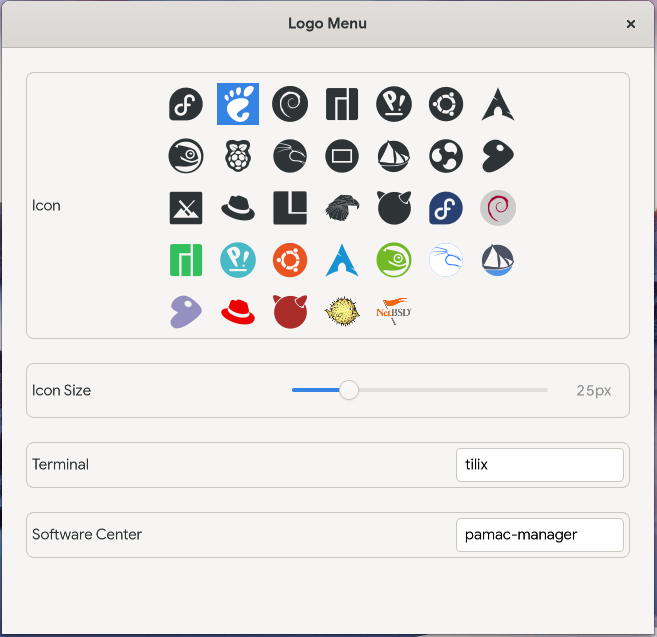
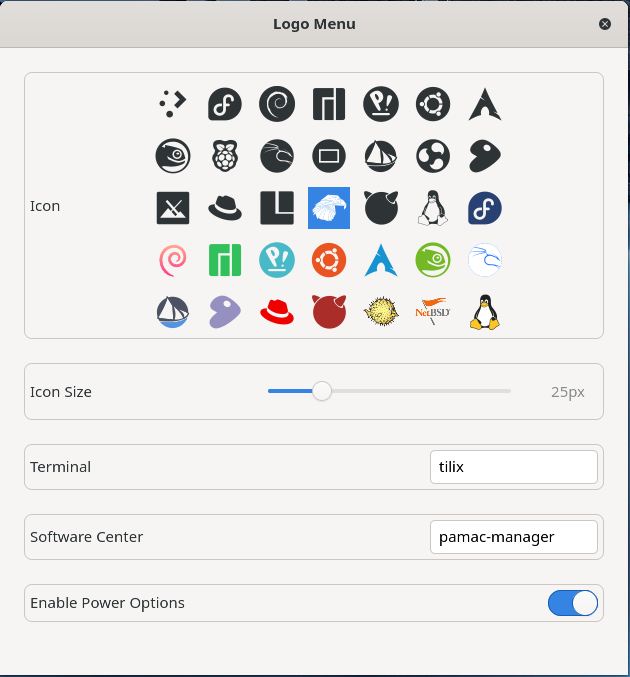
Added Power Options and improved list order

Changed region(s): [[0.0, 0.0, 1.0, 1.0], [0.4222, 0.5667, 0.8444, 0.6264], [0.8746, 0.5667, 0.9349, 0.6264]]

diff --git a/extension.js b/extension.js
@@ -24,6 +24,22 @@ function _overviewToggle() {
 	Main.overview.toggle();
 }
 
+function _sleep() {
+	Util.spawn(['systemctl', 'suspend'])
+}
+
+function _restart() {
+	Util.spawn(['systemctl', 'reboot'])
+}
+
+function _shutdown() {
+	Util.spawn(['systemctl', 'poweroff', '-prompt'])
+}
+
+function _logOut() {
+	Util.spawn(['gnome-session-quit'])
+}
+
 function _appGrid() {
     // Code snippet from - https://github.com/G-dH/custom-hot-corners-extended/blob/gdh/actions.js
     // Pressing the apps btn before overview activation avoids icons animation in GS 3.36/3.38
@@ -62,30 +78,43 @@ var MenuButton = GObject.registerClass(class FedoraMenu_MenuButton extends Panel
 		})
 		this._settings.connect("changed::menu-button-icon-image", () => this.setIconImage())
 		this._settings.connect("changed::menu-button-icon-size", () => this.setIconSize())
+		
 		this.setIconImage()
 		this.setIconSize()
 		this.add_actor(this.icon)
 
 		// Menu
-		this.item1 = new PopupMenu.PopupMenuItem(_('About My System         '))
+		this._settings.connect('changed::show-power-options', () => this.togglePowerOptions())
+		this.togglePowerOptions();
+
+		//bind middle click option to toggle overview
+		this.connect('button-press-event', _middleClick.bind(this));
+	}
+	
+	togglePowerOptions(){
+		let cstate = this._settings.get_boolean('show-power-options')
+		this.menu.removeAll()
+		this.item1 = new PopupMenu.PopupMenuItem(_('About My System                 '))
 		this.item2 = new PopupMenu.PopupMenuItem(_('System Settings...'))
 		this.item3 = new PopupMenu.PopupSeparatorMenuItem()
 		this.item4 = new PopupMenu.PopupMenuItem(_('Activities'))
-		this.item5 = new PopupMenu.PopupMenuItem(_('App Grid'))
-		this.item6 = new PopupMenu.PopupMenuItem(_('Force Quit App'))
-		this.item7 = new PopupMenu.PopupSeparatorMenuItem()
-		this.item8 = new PopupMenu.PopupMenuItem(_('Software Center...'))
-		this.item9 = new PopupMenu.PopupMenuItem(_('Terminal'))
-		this.item10 = new PopupMenu.PopupMenuItem(_('Extensions'))
-
+		this.item5 = new PopupMenu.PopupMenuItem(_('App Grid'))	
+		this.item6 = new PopupMenu.PopupSeparatorMenuItem()
+		this.item7 = new PopupMenu.PopupMenuItem(_('Software Center...'))
+		this.item8 = new PopupMenu.PopupMenuItem(_('Terminal'))
+		this.item9 = new PopupMenu.PopupMenuItem(_('Extensions'))
+		this.item10 = new PopupMenu.PopupSeparatorMenuItem()
+		this.item11 = new PopupMenu.PopupMenuItem(_('Force Quit App'))
+		
 		this.item1.connect('activate', () => _aboutThisDistro())
 		this.item2.connect('activate', () => _systemPreferences())
 		this.item4.connect('activate', () => _overviewToggle())
 		this.item5.connect('activate', () => _appGrid())
-		this.item6.connect('activate', () => _forceQuit())
-		this.item8.connect('activate', () => this.softwareStore())
-		this.item9.connect('activate', () => this.terminal())
-		this.item10.connect('activate', () => this.extensions())
+		this.item7.connect('activate', () => this.softwareStore())
+		this.item8.connect('activate', () => this.terminal())
+		this.item9.connect('activate', () => this.extensions())
+		this.item11.connect('activate', () => _forceQuit())
+		
 		this.menu.addMenuItem(this.item1)
 		this.menu.addMenuItem(this.item2)
 		this.menu.addMenuItem(this.item3)
@@ -96,9 +125,27 @@ var MenuButton = GObject.registerClass(class FedoraMenu_MenuButton extends Panel
 		this.menu.addMenuItem(this.item8)
 		this.menu.addMenuItem(this.item9)
 		this.menu.addMenuItem(this.item10)
+		this.menu.addMenuItem(this.item11)
+		if (cstate) {
+			this.item11 = new PopupMenu.PopupSeparatorMenuItem()
+			this.item12 = new PopupMenu.PopupMenuItem('Sleep')
+			this.item13 = new PopupMenu.PopupMenuItem('Restart')
+			this.item14 = new PopupMenu.PopupMenuItem('Shut Down')
+			this.item15 = new PopupMenu.PopupSeparatorMenuItem()
+			this.item16 = new PopupMenu.PopupMenuItem('Log Out...')
 
-		//bind middle click option to toggle overview
-		this.connect('button-press-event', _middleClick.bind(this));
+			this.menu.addMenuItem(this.item11)
+			this.menu.addMenuItem(this.item12)
+			this.menu.addMenuItem(this.item13)
+			this.menu.addMenuItem(this.item14)
+			this.menu.addMenuItem(this.item15)
+			this.menu.addMenuItem(this.item16)
+
+			this.item12.connect('activate', () => _sleep())
+			this.item13.connect('activate', () => _restart())
+			this.item14.connect('activate', () => _shutdown())
+			this.item16.connect('activate', () => _logOut())
+		}
 	}
 
 	terminal() {

diff --git a/prefs.js b/prefs.js
@@ -200,8 +200,6 @@ var FedoraMenuPreferencesWidget = GObject.registerClass(class Fedora_Menu_Prefer
             this.append(menuButtonTerminalFrame);
         }
 
-
-
         let menuButtonSCFrame = new Gtk.Frame();
         let menuButtonSCBox = new Gtk.Box({
             margin_top: 5,
@@ -239,6 +237,44 @@ var FedoraMenuPreferencesWidget = GObject.registerClass(class Fedora_Menu_Prefer
             menuButtonSCFrame.set_child(menuButtonSCBox);
             this.append(menuButtonSCFrame);
         }
+
+        let PowerOptionFrame = new Gtk.Frame();
+        let PowerOptionBox = new Gtk.Box({
+            margin_top: 5,
+            margin_bottom: 5,
+            margin_start: 5,
+            margin_end: 5,
+        });
+
+        let enablePowerOptionText = new Gtk.Label({
+            label: _("Enable Power Options"),
+            use_markup: true,
+            xalign: 0,
+            hexpand: true
+        })
+
+        let showPowerOptionsSwitch= new Gtk.Switch({ 
+            halign: Gtk.Align.END,
+        });
+
+        showPowerOptionsSwitch.set_active(this._settings.get_boolean('show-power-options'));
+        showPowerOptionsSwitch.connect('notify::active', (widget) => {
+            this._settings.set_boolean('show-power-options', widget.get_active());
+        });
+
+        if (shellVersion < 40){
+            PowerOptionBox.add(enablePowerOptionText);
+            PowerOptionBox.add(showPowerOptionsSwitch);
+            PowerOptionFrame.add(PowerOptionBox);
+            this.add(PowerOptionFrame);
+        }
+        else{
+            PowerOptionBox.append(enablePowerOptionText);
+            PowerOptionBox.append(showPowerOptionsSwitch);
+            PowerOptionFrame.set_child(PowerOptionBox);
+            this.append(PowerOptionFrame);
+        }
+
     }
 })
 

diff --git a/README.md b/README.md
@@ -1,7 +1,7 @@
 # Logo Menu
 
 
-<img src="https://github.com/Aryan20/Logomenu/blob/main/screenshot2.png" width=259>
+<img src="https://github.com/Aryan20/Logomenu/blob/main/screenshot2.png" width=410>
 
 <img src="https://github.com/Aryan20/Logomenu/blob/main/screenshot1.png" width=375>
 
@@ -18,17 +18,19 @@ Join the matrix room for the latest news and releases and/or for suggestions: [c
 
 -System Settings
 
--Software Center (defaults to `gnome-software`)
-
 -Activities (this menu does replace the Activities button, but this option does leave that functionality easily accessible.)
 
 -App Grid (Opens GNOME app menu/grid)
 
--Force Quit App (run this and select the app you want to kill. Requires `xkill` )
+-Software Center (defaults to `gnome-software`)
 
 -Terminal (defaults to `gnome-terminal`)
 
 -Extensions (Quick access to all of your GNOME Extensions.)
+
+-Force Quit App (run this and select the app you want to kill. Requires `xkill` )
+
+-Power Options
 
 fork of [Tofu Menu by tofutech](https://github.com/tofutech/tofumenu)
 
